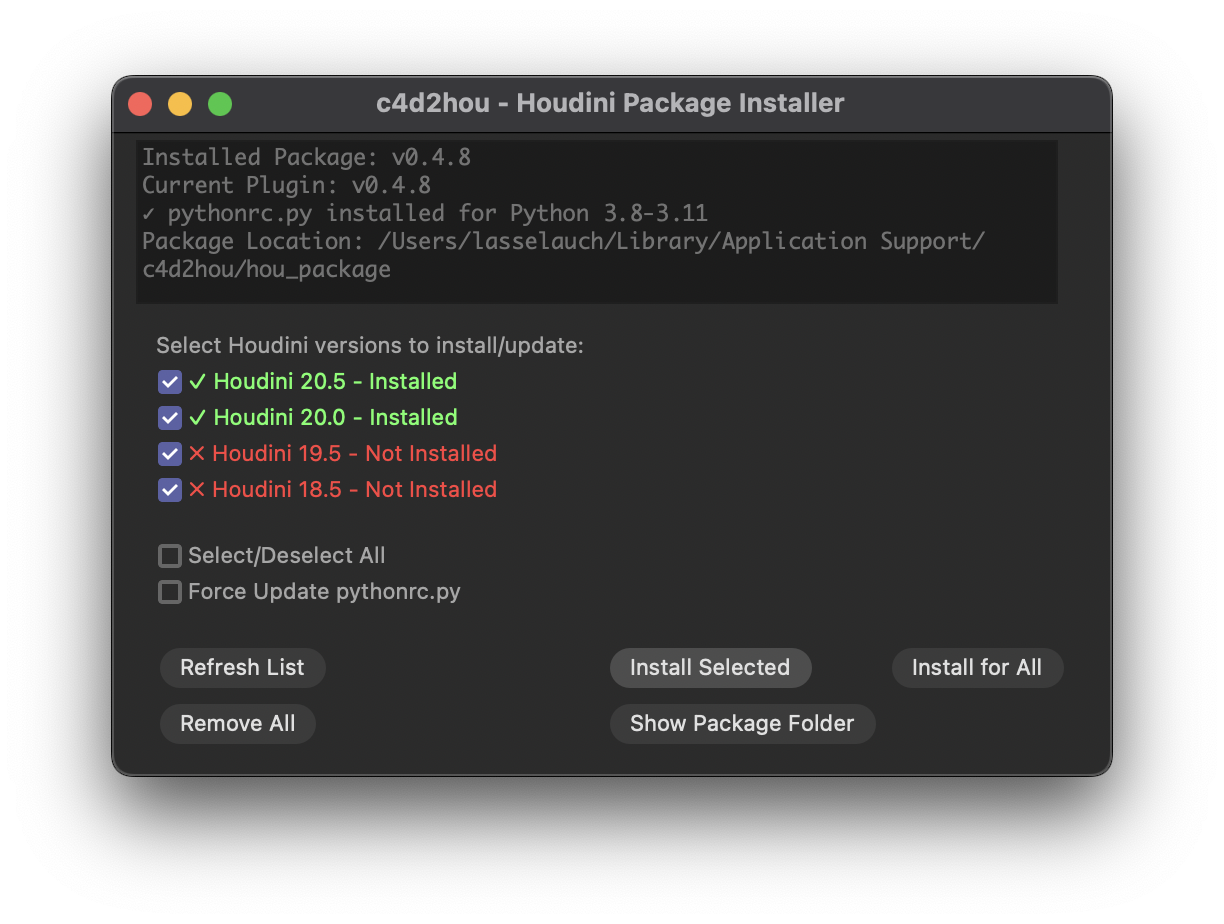
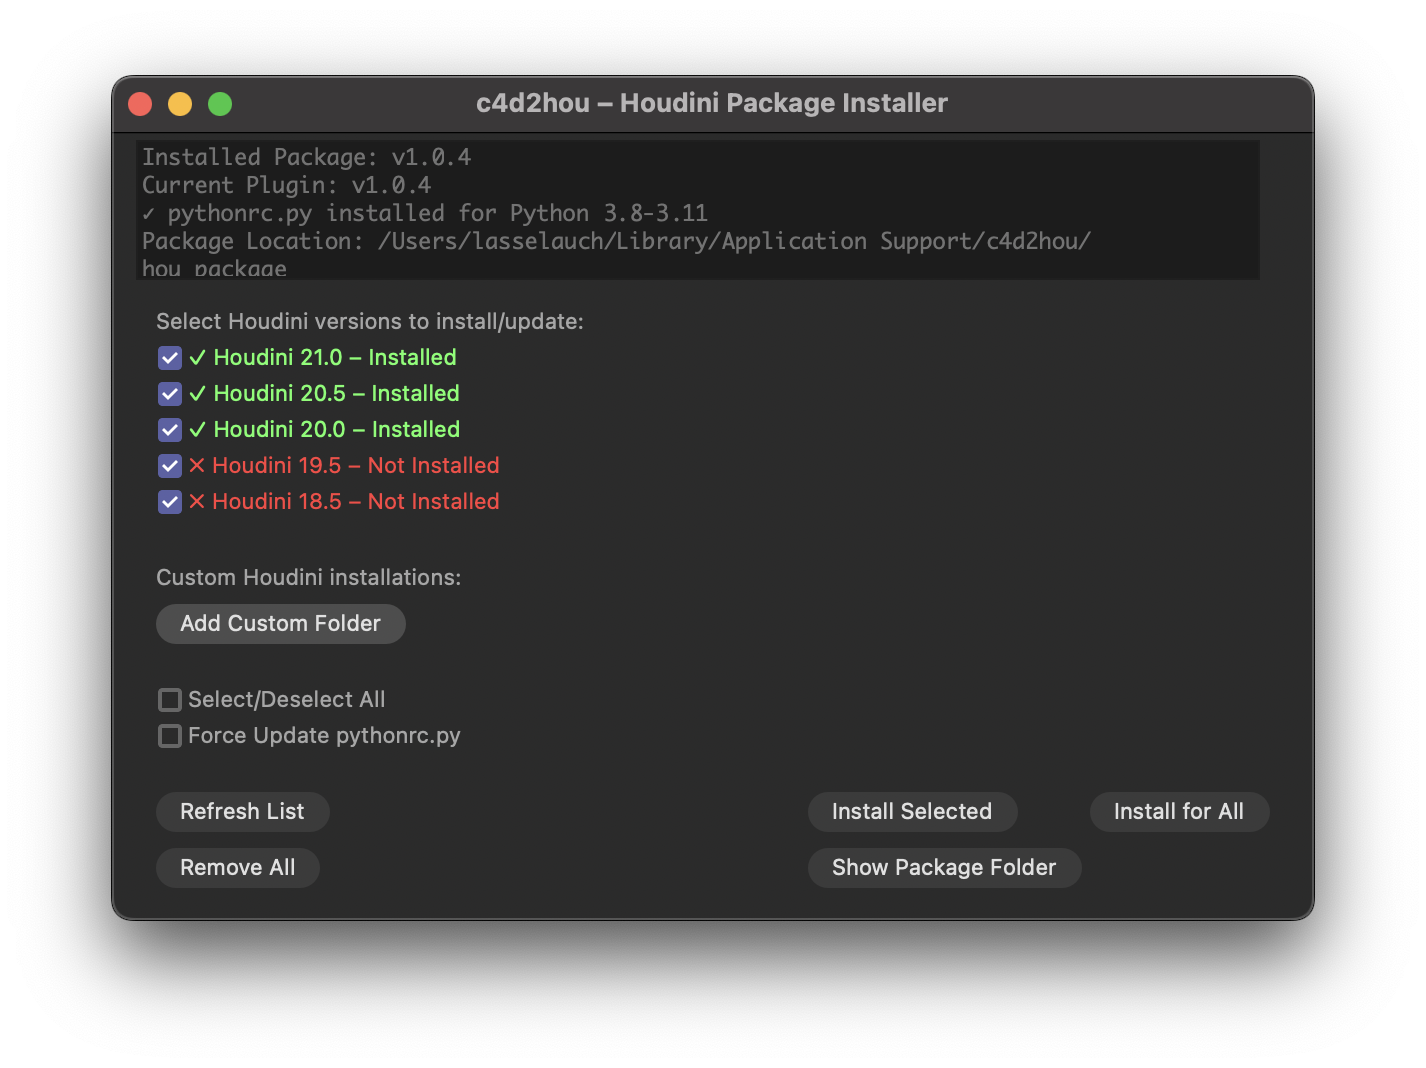
📚 Sync docs from private repository
Source commit: 09bc15fe789df731bf5faa70e1cf0f61dca5749b
  Timestamp: 2025-10-01 20:23:29 UTC
  Files changed: Update installation guide with custom folder instructions within docs

Changed region(s): [[0.0621, 0.0606, 0.9314, 0.9091], [0.7451, 0.697, 0.8693, 0.7879]]

diff --git a/install.md b/install.md
@@ -54,6 +54,14 @@ C4D2HOU detects if Houdini package installation is needed
 Start Houdini and you're ready to connect.
 The entire setup is now complete.
 
+### Note on Add Custom Folder
+When using "Add Custom Folder", specify Houdini's user preferences directory, NOT the program installation directory:
+
+- **Windows:** `C:/Users/<username>/Documents/houdini<version>`
+- **macOS:** `~/Library/Preferences/houdini/<version>`
+
+*If unsure about your directory location, check the `$HOUDINI_USER_PREF_DIR` variable from within Houdini's Python shell.*
+
 ## Understanding the Package Installer
 The Package Installer shows all detected Houdini installations with status indicators:
 
